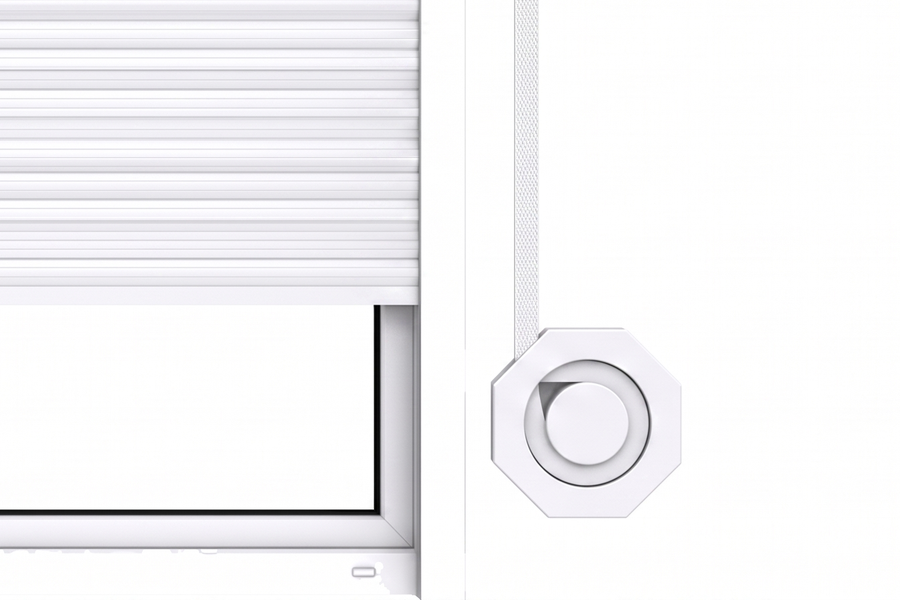
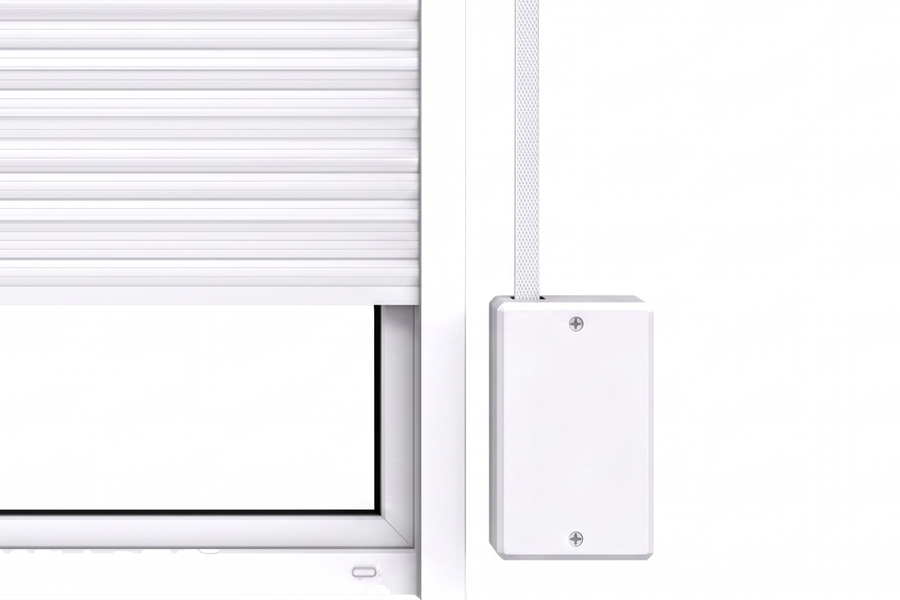
Gurtwickler-Kachel: echte Aufputz-Bauform statt Achteck mit Rad
Rueckmeldung: die Achteckform mit rundem Einsatz sieht nicht aus wie ein Gurtwickler.
Bauform daher recherchiert (Hersteller- und Haendlerangaben zu Aufputz-Gurtwicklern,
u.a. Schellenberg, SELVE) statt weiter zu raten. Kennzeichen der realen Bauform:
hochformatig rechteckig, deutlich hoeher als breit, flache ebene Frontseite, eckige
Kanten, Gurtaustritt oben, sichtbare Schraubpunkte.

Neues Kachelbild danach erzeugt (Higgsfield nano_banana_2, Bild-zu-Bild auf dem
bisherigen Rollladen-Render): flaches hochkantes Gehaeuse mit Schraubpunkten oben und
unten, Gurt tritt oben mittig ein und laeuft senkrecht zum Kasten hoch. Kein Achteck,
kein Rad, keine gewoelbte Front.

Fremde Produktfotos wurden bewusst NICHT als Bildreferenz verwendet, nur die
beschriebene Bauform — die Fotos gehoeren den jeweiligen Haendlern.

Bild-Version auf ?v=3 gezogen. Geprueft auf 1440 und 390 px, keine Konsolenfehler.

Changed region(s): [[0.4978, 0.0, 0.7467, 0.96], [0.4044, 0.51, 0.4356, 0.84], [0.7156, 0.54, 0.7467, 0.57]]

diff --git a/konfigurator.html b/konfigurator.html
@@ -3488,7 +3488,7 @@ function panelHTML(){
     // Gespiegelt wird nur beim Gurtwickler — dort wandert der Wickler sichtbar auf die andere
     // Seite. Beim Motor gaebe es nichts zu spiegeln ausser dem Fenster selbst; das saehe nach
     // Versehen aus. Die beiden Motor-Kacheln zeigen daher bewusst dasselbe Bild.
-    const rimg=(art,li)=>`<img src="img/rolladen-${art}-r.webp?v=2" ${(li&&art==='gurt')?'class="mir" ':''}alt="${art==='gurt'?'Rollladen mit Gurtwickler '+(li?'links':'rechts'):'Rollladen mit Motorantrieb'}" loading="lazy" decoding="async">`;
+    const rimg=(art,li)=>`<img src="img/rolladen-${art}-r.webp?v=3" ${(li&&art==='gurt')?'class="mir" ':''}alt="${art==='gurt'?'Rollladen mit Gurtwickler '+(li?'links':'rechts'):'Rollladen mit Motorantrieb'}" loading="lazy" decoding="async">`;
     return `<div class="card"><div class="grp-title">Rollladen</div><div class="opts roll5">`
       +rc('kein',null,ban,'Kein Rollladen','ohne')
       +rc('gurt','links',rimg('gurt',1),'Gurtwickler links','Gurt links')
